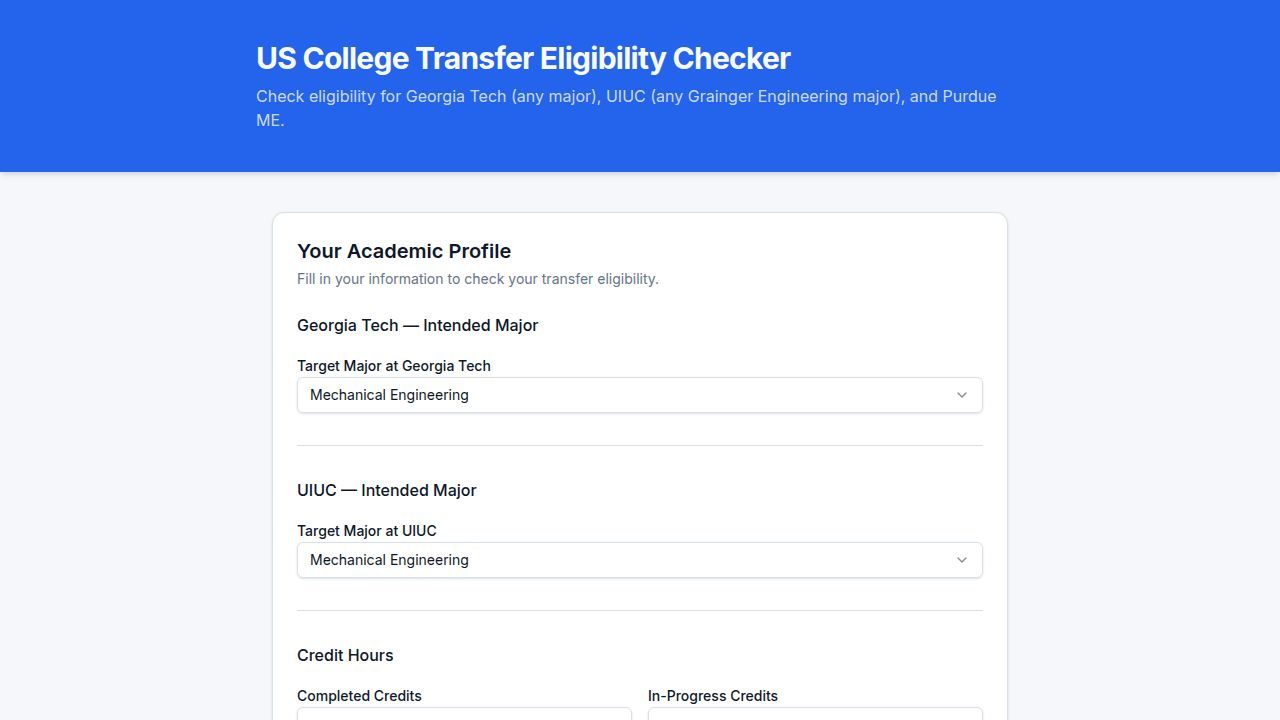
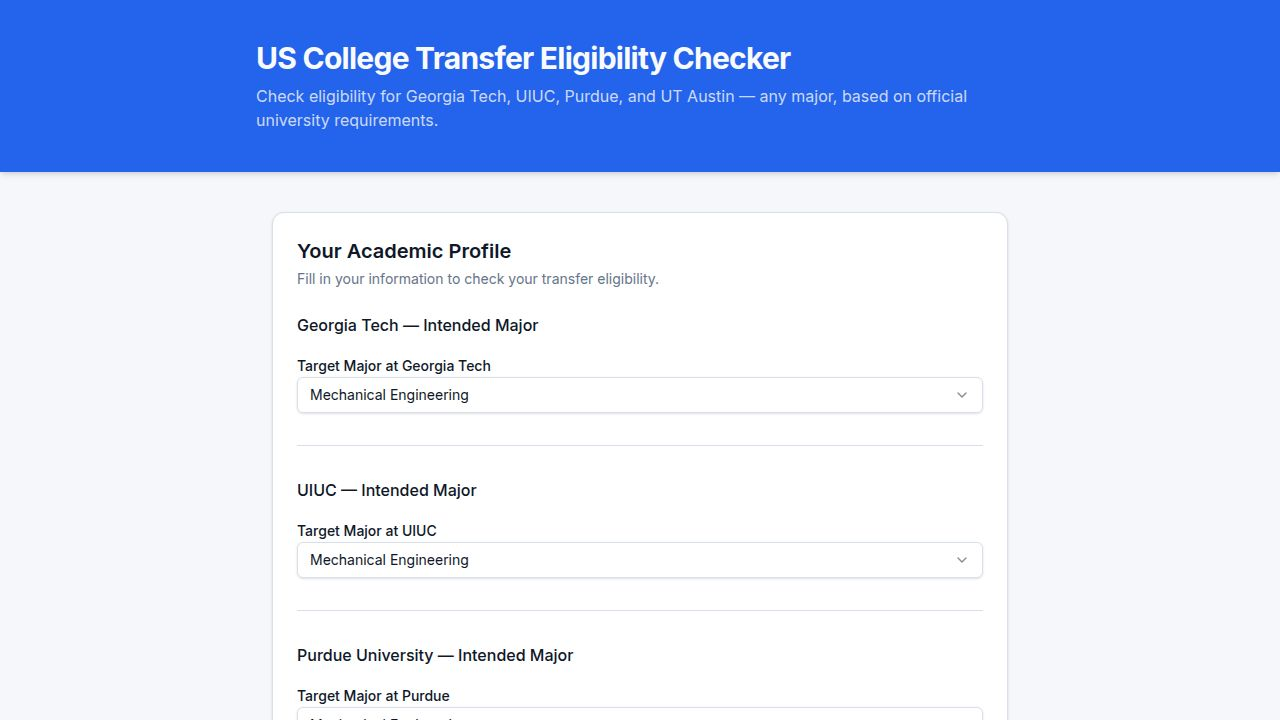
Add UT Austin as a university to check transfer eligibility for
Integrates UT Austin into the transfer eligibility checker by adding new types, updating the form, modifying the eligibility logic to reject Duolingo, and including UT Austin's specific major requirements and data.

Replit-Commit-Author: Agent
Replit-Commit-Session-Id: 98a998c3-76d9-469d-b940-a880051a28b4
Replit-Commit-Checkpoint-Type: full_checkpoint
Replit-Commit-Event-Id: b0478ca4-8746-4555-bc0e-28520e9492a3
Replit-Commit-Screenshot-Url: https://storage.googleapis.com/screenshot-production-us-central1/dd8529ab-5dee-4aa6-9e91-5f416f4c2600/98a998c3-76d9-469d-b940-a880051a28b4/iZi8mSn
Replit-Helium-Checkpoint-Created: true

diff --git a/artifacts/transfer-checker/src/pages/Home.tsx b/artifacts/transfer-checker/src/pages/Home.tsx
@@ -2,7 +2,8 @@ import { useState } from "react";
 import gtMajorsData from "@/data/gt-majors.json";
 import uiucMajorsData from "@/data/uiuc-majors.json";
 import purdueMajorsData from "@/data/purdue-majors.json";
-import type { University, GtMajorsData, UiucMajorsData, PurdueMajorsData } from "@/types";
+import utaustinMajorsData from "@/data/utaustin-majors.json";
+import type { University, GtMajorsData, UiucMajorsData, PurdueMajorsData, UtAustinMajorsData } from "@/types";
 import { TransferForm } from "@/components/TransferForm";
 import { ResultsPanel } from "@/components/ResultsPanel";
 import { evaluateAll } from "@/lib/eligibility";
@@ -11,6 +12,7 @@ import type { StudentProfile, EligibilityResult } from "@/lib/eligibility";
 const gtData = gtMajorsData as unknown as GtMajorsData;
 const uiucData = uiucMajorsData as unknown as UiucMajorsData;
 const purdueData = purdueMajorsData as unknown as PurdueMajorsData;
+const utaustinData = utaustinMajorsData as unknown as UtAustinMajorsData;
 
 const COURSE_NAMES: Record<string, string> = {
   calc1: "Calculus I",
@@ -88,6 +90,16 @@ const COURSE_DESCRIPTIONS_PURDUE: Record<string, string> = {
   advancedScience: "One advanced course in math (Calc III/above), chemistry (beyond Chem I), or physics (beyond Physics I). Must be a full course, not a lab section only.",
 };
 
+const COURSE_DESCRIPTIONS_UTAUSTIN: Record<string, string> = {
+  calc1: "Required for all UT Austin Cockrell majors. Equivalent to M 408C or M 408K at UT Austin.",
+  calc2: "Equivalent to M 408D, M 408L, or M 408M (TCCN: MATH 2415) at UT Austin.",
+  physics1: "Equivalent to PHY 303K + lab (103M or 105M) at UT Austin. Must include both lecture and lab.",
+  chem1: "Equivalent to CH 301 at UT Austin (TCCN: CHEM 1411).",
+  chem2: "Equivalent to CH 302 + lab (102M) at UT Austin. Required for Materials Science Engineering.",
+  bio1: "Equivalent to BIO 311C at UT Austin (TCCN: BIOL 1406). Required for Biomedical Engineering.",
+  computing: "Equivalent to CS 303E or CS 312 at UT Austin. Required for ECE, ME, and Computational Engineering.",
+};
+
 function buildGtUniversity(majorId: string): University {
   const allMajors = gtData.colleges.flatMap((c) => c.majors);
   const major = allMajors.find((m) => m.id === majorId) ?? allMajors[0];
@@ -153,25 +165,47 @@ function buildPurdueUniversity(majorId: string): University {
   } as University;
 }
 
+function buildUtAustinUniversity(majorId: string): University {
+  const allMajors = utaustinData.colleges.flatMap((c) => c.majors);
+  const major = allMajors.find((m) => m.id === majorId) ?? allMajors[0];
+  const base = utaustinData.base;
+
+  const allCourseIds = ["calc1", ...major.requiredCourseIds];
+  const requiredCourses = allCourseIds.map((id) => ({
+    id,
+    name: COURSE_NAMES[id] ?? id,
+    description: COURSE_DESCRIPTIONS_UTAUSTIN[id] ?? "",
+  }));
+
+  return {
+    ...base,
+    id: `utaustin-${major.id}`,
+    major: major.name,
+    requiredCourses,
+    sourceUrl: major.sourceUrl ?? base.sourceUrl,
+    notes: base.notes + (major.note ? ` Note: ${major.note}` : ""),
+  } as University;
+}
+
 export default function Home() {
   const [results, setResults] = useState<EligibilityResult[] | null>(null);
   const [submitted, setSubmitted] = useState(false);
   const [gtMajorId, setGtMajorId] = useState("mechanical-engineering");
   const [uiucMajorId, setUiucMajorId] = useState("mechanical-engineering");
   const [purdueMajorId, setPurdueMajorId] = useState("mechanical-engineering");
+  const [utaustinMajorId, setUtAustinMajorId] = useState("mechanical-engineering");
 
-  function handleSubmit(profile: StudentProfile & { gtMajorId: string; uiucMajorId: string; purdueMajorId: string }) {
-    const selectedGtId = profile.gtMajorId;
-    const selectedUiucId = profile.uiucMajorId;
-    const selectedPurdueId = profile.purdueMajorId;
-    setGtMajorId(selectedGtId);
-    setUiucMajorId(selectedUiucId);
-    setPurdueMajorId(selectedPurdueId);
+  function handleSubmit(profile: StudentProfile & { gtMajorId: string; uiucMajorId: string; purdueMajorId: string; utaustinMajorId: string }) {
+    setGtMajorId(profile.gtMajorId);
+    setUiucMajorId(profile.uiucMajorId);
+    setPurdueMajorId(profile.purdueMajorId);
+    setUtAustinMajorId(profile.utaustinMajorId);
 
-    const gtUniversity = buildGtUniversity(selectedGtId);
-    const uiucUniversity = buildUiucUniversity(selectedUiucId);
-    const purdueUniversity = buildPurdueUniversity(selectedPurdueId);
-    const allUniversities = [gtUniversity, uiucUniversity, purdueUniversity];
+    const gtUniversity = buildGtUniversity(profile.gtMajorId);
+    const uiucUniversity = buildUiucUniversity(profile.uiucMajorId);
+    const purdueUniversity = buildPurdueUniversity(profile.purdueMajorId);
+    const utaustinUniversity = buildUtAustinUniversity(profile.utaustinMajorId);
+    const allUniversities = [gtUniversity, uiucUniversity, purdueUniversity, utaustinUniversity];
     const evaluated = evaluateAll(profile, allUniversities);
     setResults(evaluated);
     setSubmitted(true);
@@ -186,10 +220,12 @@ export default function Home() {
     window.scrollTo({ top: 0, behavior: "smooth" });
   }
 
-  const gtUniversityForDisplay = buildGtUniversity(gtMajorId);
-  const uiucUniversityForDisplay = buildUiucUniversity(uiucMajorId);
-  const purdueUniversityForDisplay = buildPurdueUniversity(purdueMajorId);
-  const allUniversitiesForDisplay = [gtUniversityForDisplay, uiucUniversityForDisplay, purdueUniversityForDisplay];
+  const allUniversitiesForDisplay = [
+    buildGtUniversity(gtMajorId),
+    buildUiucUniversity(uiucMajorId),
+    buildPurdueUniversity(purdueMajorId),
+    buildUtAustinUniversity(utaustinMajorId),
+  ];
 
   return (
     <main className="min-h-screen bg-background">
@@ -199,7 +235,7 @@ export default function Home() {
             US College Transfer Eligibility Checker
           </h1>
           <p className="mt-2 text-primary-foreground/80 text-base">
-            Check eligibility for Georgia Tech, UIUC, and Purdue — any major, based on official university requirements.
+            Check eligibility for Georgia Tech, UIUC, Purdue, and UT Austin — any major, based on official university requirements.
           </p>
         </div>
       </header>
@@ -220,12 +256,14 @@ export default function Home() {
         <p>
           Requirements are based on officially published information and may change. Always verify directly with each university's admissions office.
         </p>
-        <p className="mt-1 space-x-2">
+        <p className="mt-1 flex flex-wrap justify-center gap-x-2 gap-y-1">
           <a href="https://admission.gatech.edu/transfer/course-requirements-major" target="_blank" rel="noopener noreferrer" className="underline hover:text-foreground">GT source (Sept 2025)</a>
           <span>·</span>
           <a href="https://transferhandbook.illinois.edu/eng/" target="_blank" rel="noopener noreferrer" className="underline hover:text-foreground">UIUC source</a>
           <span>·</span>
           <a href="https://admissions.purdue.edu/become-student/transfer/engineering-transfer-criteria/" target="_blank" rel="noopener noreferrer" className="underline hover:text-foreground">Purdue source</a>
+          <span>·</span>
+          <a href="https://cockrell.utexas.edu/admissions/undergraduate/external-transfer/" target="_blank" rel="noopener noreferrer" className="underline hover:text-foreground">UT Austin source</a>
         </p>
       </footer>
     </main>

diff --git a/artifacts/transfer-checker/src/components/TransferForm.tsx b/artifacts/transfer-checker/src/components/TransferForm.tsx
@@ -25,12 +25,14 @@ import { Separator } from "@/components/ui/separator";
 import gtMajorsData from "@/data/gt-majors.json";
 import uiucMajorsData from "@/data/uiuc-majors.json";
 import purdueMajorsData from "@/data/purdue-majors.json";
+import utaustinMajorsData from "@/data/utaustin-majors.json";
 import type { StudentProfile, CourseRecord, CourseStatus, EnglishTestType } from "@/lib/eligibility";
-import type { GtMajorsData, UiucMajorsData, PurdueMajorsData } from "@/types";
+import type { GtMajorsData, UiucMajorsData, PurdueMajorsData, UtAustinMajorsData } from "@/types";
 
 const gtData = gtMajorsData as unknown as GtMajorsData;
 const uiucData = uiucMajorsData as unknown as UiucMajorsData;
 const purdueData = purdueMajorsData as unknown as PurdueMajorsData;
+const utaustinData = utaustinMajorsData as unknown as UtAustinMajorsData;
 
 const COURSE_IDS = [
   "calc1", "calc2", "calc3", "diffEq", "linAlg", "discreteStructures",
@@ -111,6 +113,7 @@ const formSchema = z.object({
   gtMajorId: z.string().min(1, "Please select a Georgia Tech major"),
   uiucMajorId: z.string().min(1, "Please select a UIUC major"),
   purdueMajorId: z.string().min(1, "Please select a Purdue major"),
+  utaustinMajorId: z.string().min(1, "Please select a UT Austin major"),
   calc1: courseStatusEnum,
   calc2: courseStatusEnum,
   calc3: courseStatusEnum,
@@ -139,7 +142,7 @@ const formSchema = z.object({
 type FormValues = z.infer<typeof formSchema>;
 
 interface TransferFormProps {
-  onSubmit: (profile: StudentProfile & { gtMajorId: string; uiucMajorId: string; purdueMajorId: string }) => void;
+  onSubmit: (profile: StudentProfile & { gtMajorId: string; uiucMajorId: string; purdueMajorId: string; utaustinMajorId: string }) => void;
   onReset: () => void;
   hasResults: boolean;
 }
@@ -158,6 +161,7 @@ export function TransferForm({ onSubmit, onReset, hasResults }: TransferFormProp
       gtMajorId: "mechanical-engineering",
       uiucMajorId: "mechanical-engineering",
       purdueMajorId: "mechanical-engineering",
+      utaustinMajorId: "mechanical-engineering",
       calc1: "not-taken",
       calc2: "not-taken",
       calc3: "not-taken",
@@ -205,6 +209,7 @@ export function TransferForm({ onSubmit, onReset, hasResults }: TransferFormProp
       gtMajorId: values.gtMajorId,
       uiucMajorId: values.uiucMajorId,
       purdueMajorId: values.purdueMajorId,
+      utaustinMajorId: values.utaustinMajorId,
       courses,
     };
     onSubmit(profile);
@@ -309,6 +314,42 @@ export function TransferForm({ onSubmit, onReset, hasResults }: TransferFormProp
                     </FormControl>
                     <SelectContent>
                       {purdueData.colleges.map((college) => (
+                        <SelectGroup key={college.name}>
+                          <SelectLabel>{college.name}</SelectLabel>
+                          {college.majors.map((major) => (
+                            <SelectItem key={major.id} value={major.id}>
+                              {major.name}
+                            </SelectItem>
+                          ))}
+                        </SelectGroup>
+                      ))}
+                    </SelectContent>
+                  </Select>
+                  <FormMessage />
+                </FormItem>
+              )}
+            />
+          </div>
+
+          <Separator />
+
+          {/* UT Austin Major */}
+          <div>
+            <h3 className="text-base font-medium text-foreground mb-4">UT Austin — Intended Major</h3>
+            <FormField
+              control={form.control}
+              name="utaustinMajorId"
+              render={({ field }) => (
+                <FormItem>
+                  <FormLabel>Target Major at UT Austin (Cockrell School of Engineering)</FormLabel>
+                  <Select onValueChange={field.onChange} defaultValue={field.value}>
+                    <FormControl>
+                      <SelectTrigger data-testid="select-utaustin-major">
+                        <SelectValue placeholder="Select a major" />
+                      </SelectTrigger>
+                    </FormControl>
+                    <SelectContent>
+                      {utaustinData.colleges.map((college) => (
                         <SelectGroup key={college.name}>
                           <SelectLabel>{college.name}</SelectLabel>
                           {college.majors.map((major) => (

diff --git a/artifacts/transfer-checker/src/lib/eligibility.ts b/artifacts/transfer-checker/src/lib/eligibility.ts
@@ -62,6 +62,14 @@ function checkEnglish(
     return { met: true, isConditional: false, reason: "English Composition 1 & 2 completed — English test waived." };
   }
 
+  if (testType === "Duolingo" && req.duolingoAccepted === false) {
+    return {
+      met: false,
+      isConditional: false,
+      reason: `Duolingo is not accepted by ${university.name}. Only TOEFL iBT and IELTS Academic are accepted.`,
+    };
+  }
+
   if (testType === "TOEFL") {
     if (toeflIsLegacy && req.toeflLegacy) {
       const legacy = req.toeflLegacy;
@@ -111,11 +119,12 @@ function checkEnglish(
     const toeflNote = req.toeflLegacy
       ? `TOEFL 5.0+ (new scale) or ${req.toeflLegacy.min}+ (old scale, all sections ${req.toeflLegacy.subscoreMin}+)`
       : `TOEFL ${req.toefl.min}+`;
+    const duolingoNote = req.duolingoAccepted === false ? "" : `, or Duolingo ${req.duolingo.min}+`;
     const compNote = req.compositionWaiver ? " or completing English Composition 1 & 2" : "";
     return {
       met: false,
       isConditional: false,
-      reason: `No English test provided. Required: ${toeflNote}, IELTS ${req.ielts.min}+, or Duolingo ${req.duolingo.min}+${compNote}.`,
+      reason: `No English test provided. Required: ${toeflNote}, IELTS ${req.ielts.min}+${duolingoNote}${compNote}.`,
     };
   }
 

diff --git a/artifacts/transfer-checker/src/types/index.ts b/artifacts/transfer-checker/src/types/index.ts
@@ -14,6 +14,7 @@ export interface EnglishRequirement {
   toeflLegacy?: ToeflLegacyThreshold;
   ielts: EnglishTestThreshold;
   duolingo: EnglishTestThreshold;
+  duolingoAccepted?: boolean;
   compositionWaiver: boolean;
   note: string;
 }
@@ -90,4 +91,22 @@ export interface PurdueCollege {
 export interface PurdueMajorsData {
   base: Omit<University, "major" | "requiredCourses">;
   colleges: PurdueCollege[];
+}
+
+export interface UtAustinMajor {
+  id: string;
+  name: string;
+  requiredCourseIds: string[];
+  note?: string;
+  sourceUrl?: string;
+}
+
+export interface UtAustinCollege {
+  name: string;
+  majors: UtAustinMajor[];
+}
+
+export interface UtAustinMajorsData {
+  base: Omit<University, "major" | "requiredCourses">;
+  colleges: UtAustinCollege[];
 }
